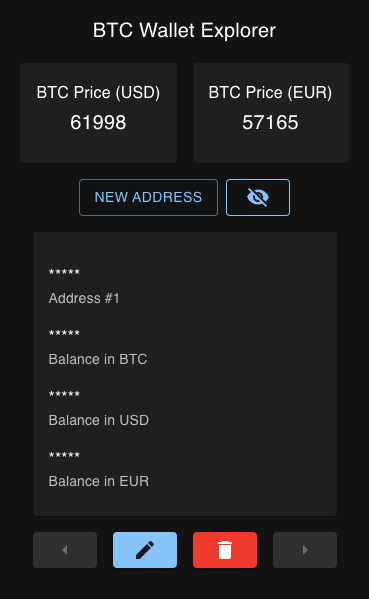
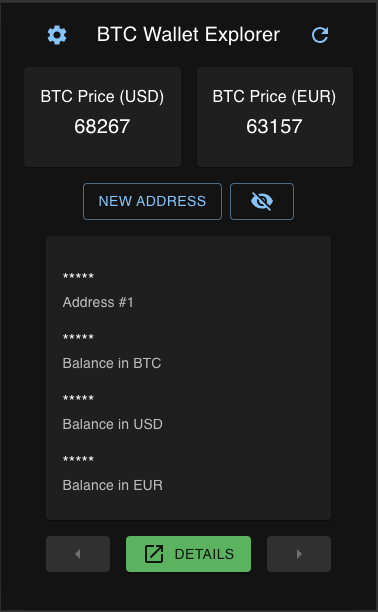
CHANGES README.md to keep it up-to-date (#23)

diff --git a/README.md b/README.md
@@ -1,11 +1,11 @@
 # BTC Wallet Explorer
 
-React app I have done for myself, but if anyone finds it of interest... 😁
+React app to check investments done in this cryptocurrency.
 
 ## Features
 
 - [x] List current Bitcoin prices in USD and EUR.
-- [x] Explore Bitcoin addresses, showing their balances in both currencies mentioned before
+- [x] Explore Bitcoin addresses by showing balances, listing their most recent transactions or checking stats about them.
 - [x] Privacy mode in case you do not want to show your data.
 
 ## Sites this app queries
@@ -17,10 +17,8 @@ All data is processed client-side, and no request are made apart to the followin
 
 ## Screenshots
 
-## ![no address](https://github.com/nullasaservice/btc_wallet_explorer/blob/master/screenshots/no_address.png?raw=true)
+![ok](screenshots/ok.png)
 
-## ![with_address](https://github.com/nullasaservice/btc_wallet_explorer/blob/master/screenshots/with_address.png?raw=true)
+![privacy_mode](screenshots/privacy_mode.png)
 
-## ![address_not_found](https://github.com/nullasaservice/btc_wallet_explorer/blob/master/screenshots/address_not_found.png?raw=true)
-
-![privacy_mode](https://github.com/nullasaservice/btc_wallet_explorer/blob/master/screenshots/privacy_mode.png?raw=true)
+![details](screenshots/details.png)
